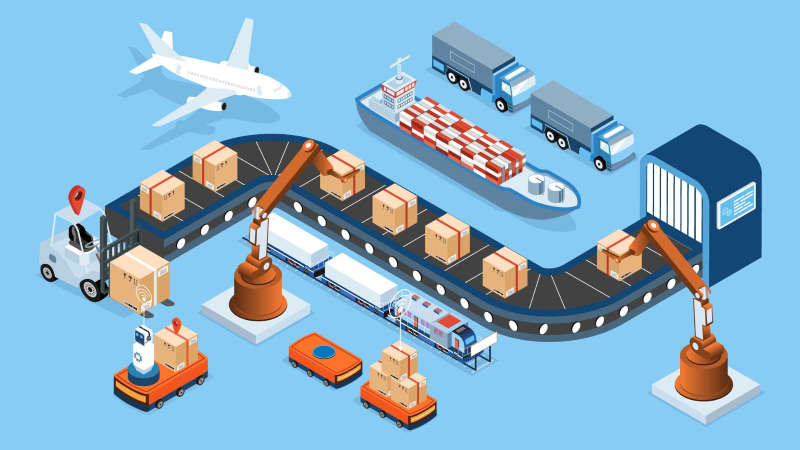
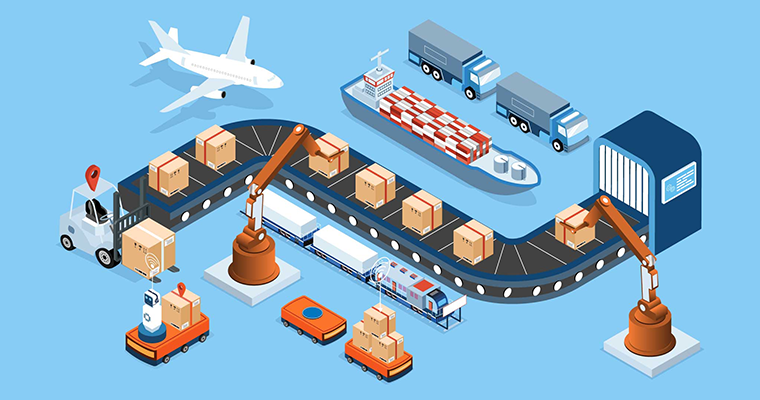
slider update

Changed region(s): [[0.0303, 0.09, 0.9684, 0.96], [0.1513, 0.03, 0.3934, 0.3], [0.575, 0.06, 0.6053, 0.09]]

diff --git a/main-service/src/main/resources/static/fragments/slider.html b/main-service/src/main/resources/static/fragments/slider.html
@@ -1,6 +1,8 @@
 <div id="slider-container" class="slider-container">
     <div class="slider" id="slider">
-        <div class="slide"><img class="slider-img" src="/images/slider_4.png" alt="Slide 1"></div>
-        <div class="slide"><img class="slider-img" src="/images/slider_5.png" alt="Slide 2"></div>
+        <div class="slide"><img class="slider-img" src="/images/slider_1.png" alt="Slide 1"></div>
+        <div class="slide"><img class="slider-img" src="/images/slider_2.png" alt="Slide 2"></div>
+        <div class="slide"><img class="slider-img" src="/images/slider_3.png" alt="Slide 3"></div>
+        <div class="slide"><img class="slider-img" src="/images/slider_4.png" alt="Slide 4"></div>
     </div>
 </div>

diff --git a/main-service/src/main/resources/static/javascript/slider.js b/main-service/src/main/resources/static/javascript/slider.js
@@ -9,7 +9,7 @@ document.addEventListener("DOMContentLoaded", function () {
 
         setInterval(() => {
             index = (index + 1) % totalSlides;
-            slider.style.transform = `translateX(${-index * 800}px)`;
+            slider.style.transform = `translateX(${-index * 760}px)`;
         }, 3000);
     }
 

diff --git a/main-service/src/main/resources/static/styles.css b/main-service/src/main/resources/static/styles.css
@@ -273,7 +273,6 @@ nav a {
 }
 
 .slider-container {
-    background-color: red;
     width: 760px;
     height: 400px;
     overflow: hidden;
@@ -282,6 +281,7 @@ nav a {
 .slider {
     display: flex;
     width: 400%;
+    height: 400px;
     transition: transform 0.5s ease-in-out;
 }
 
